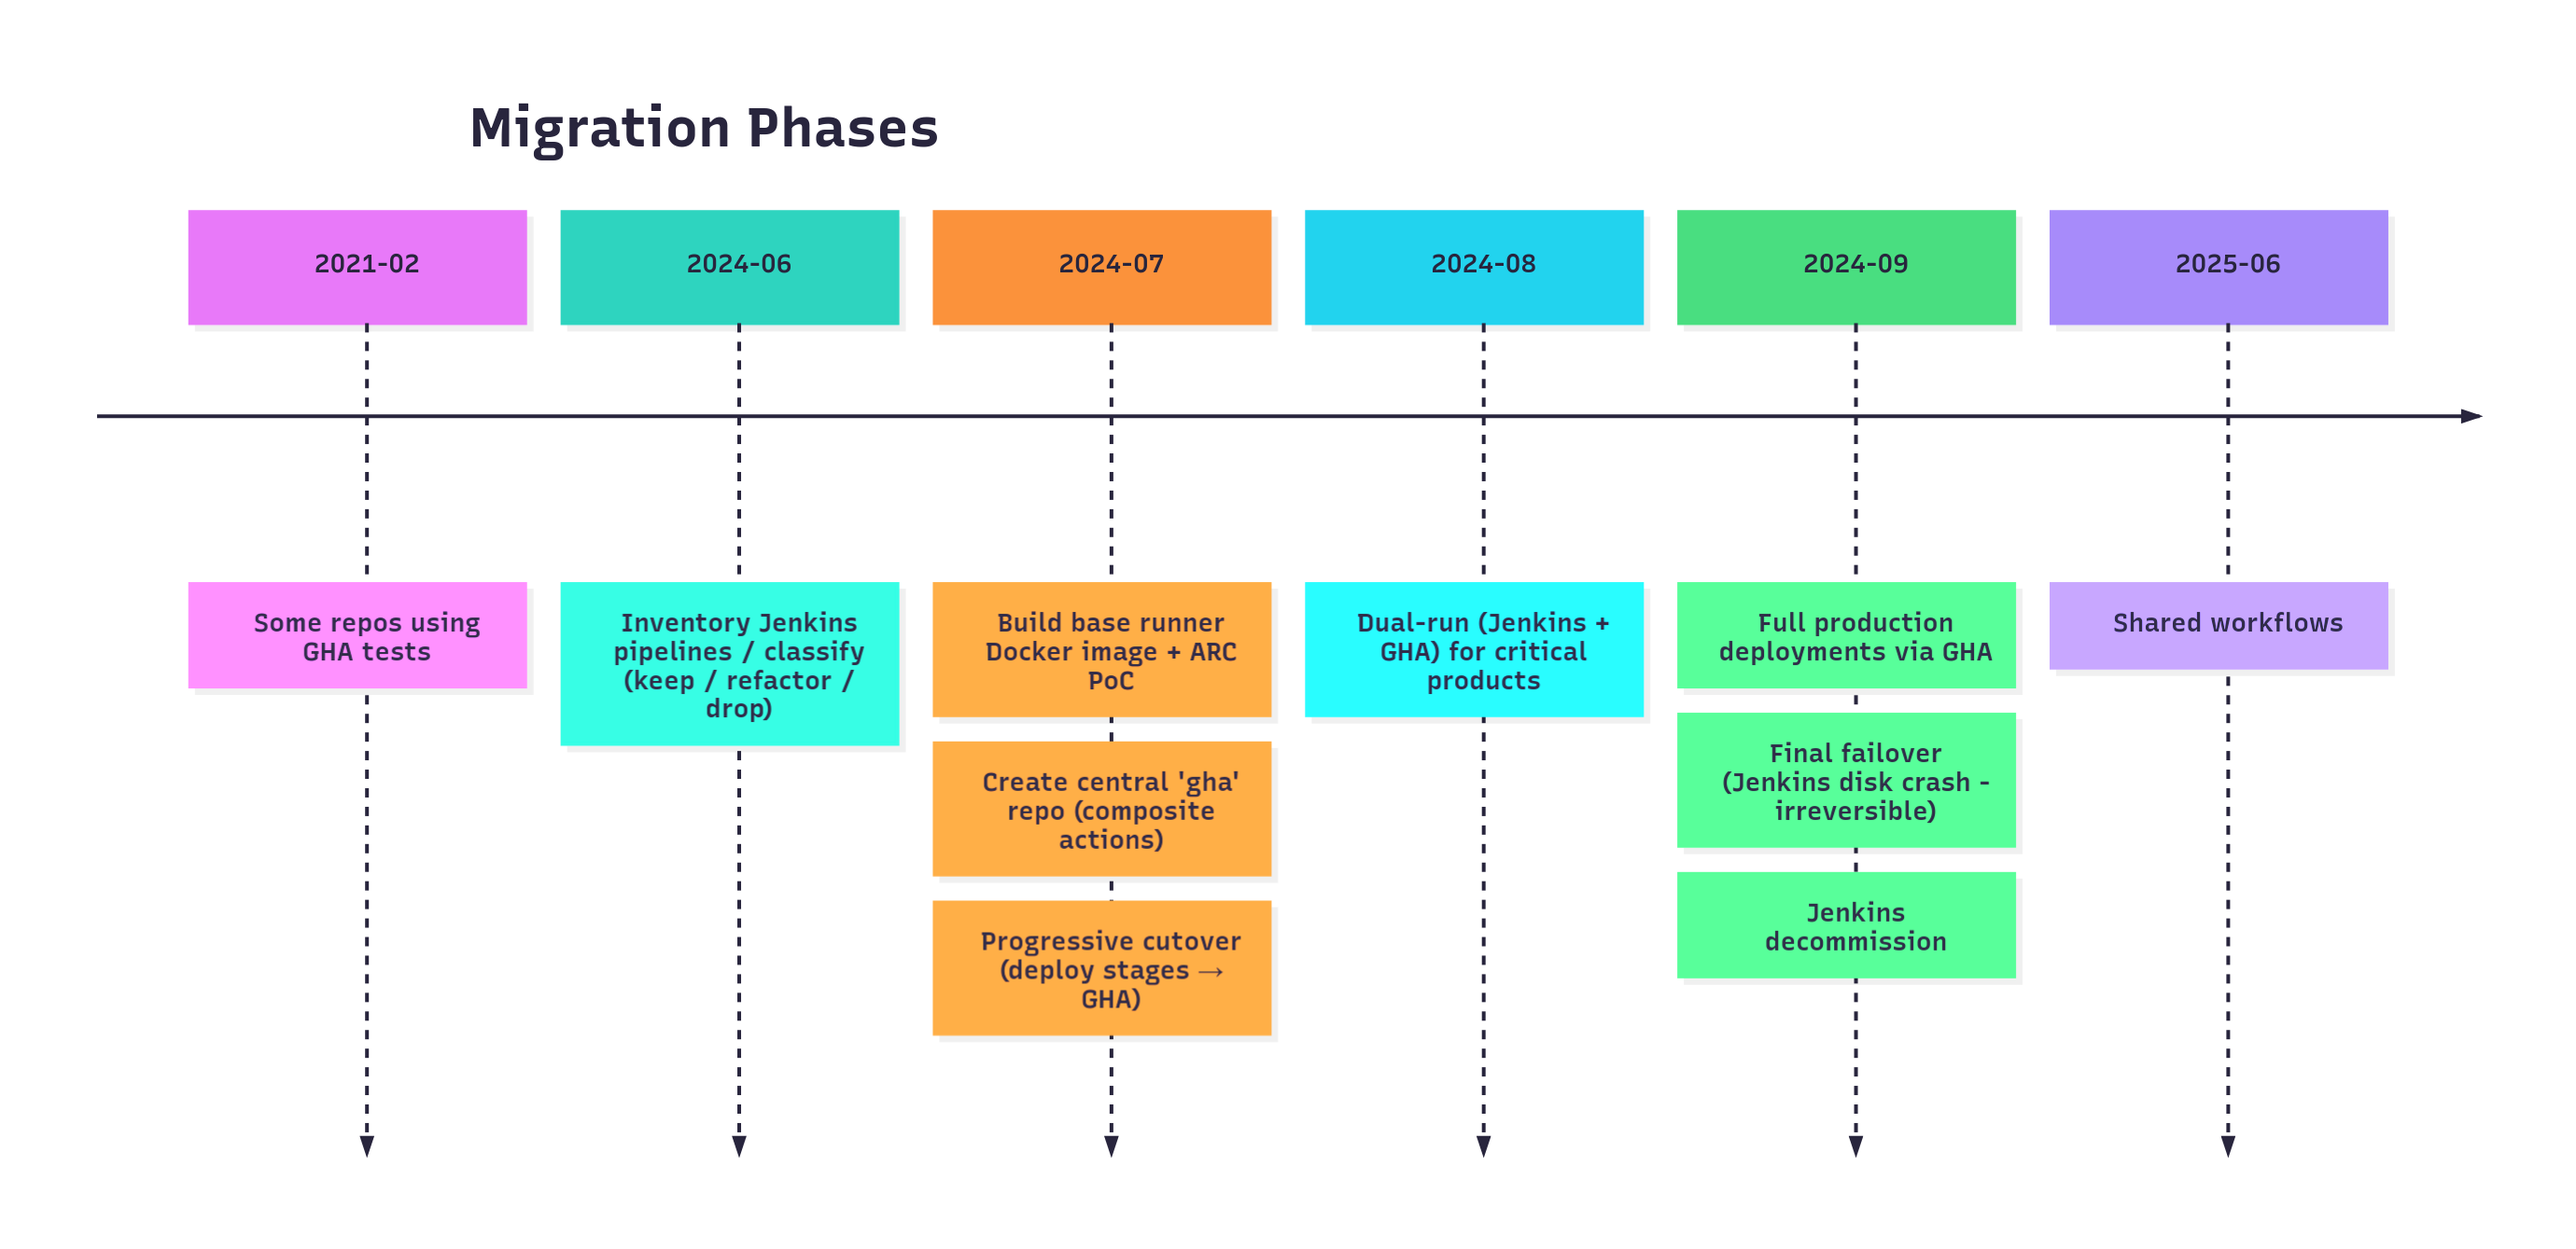
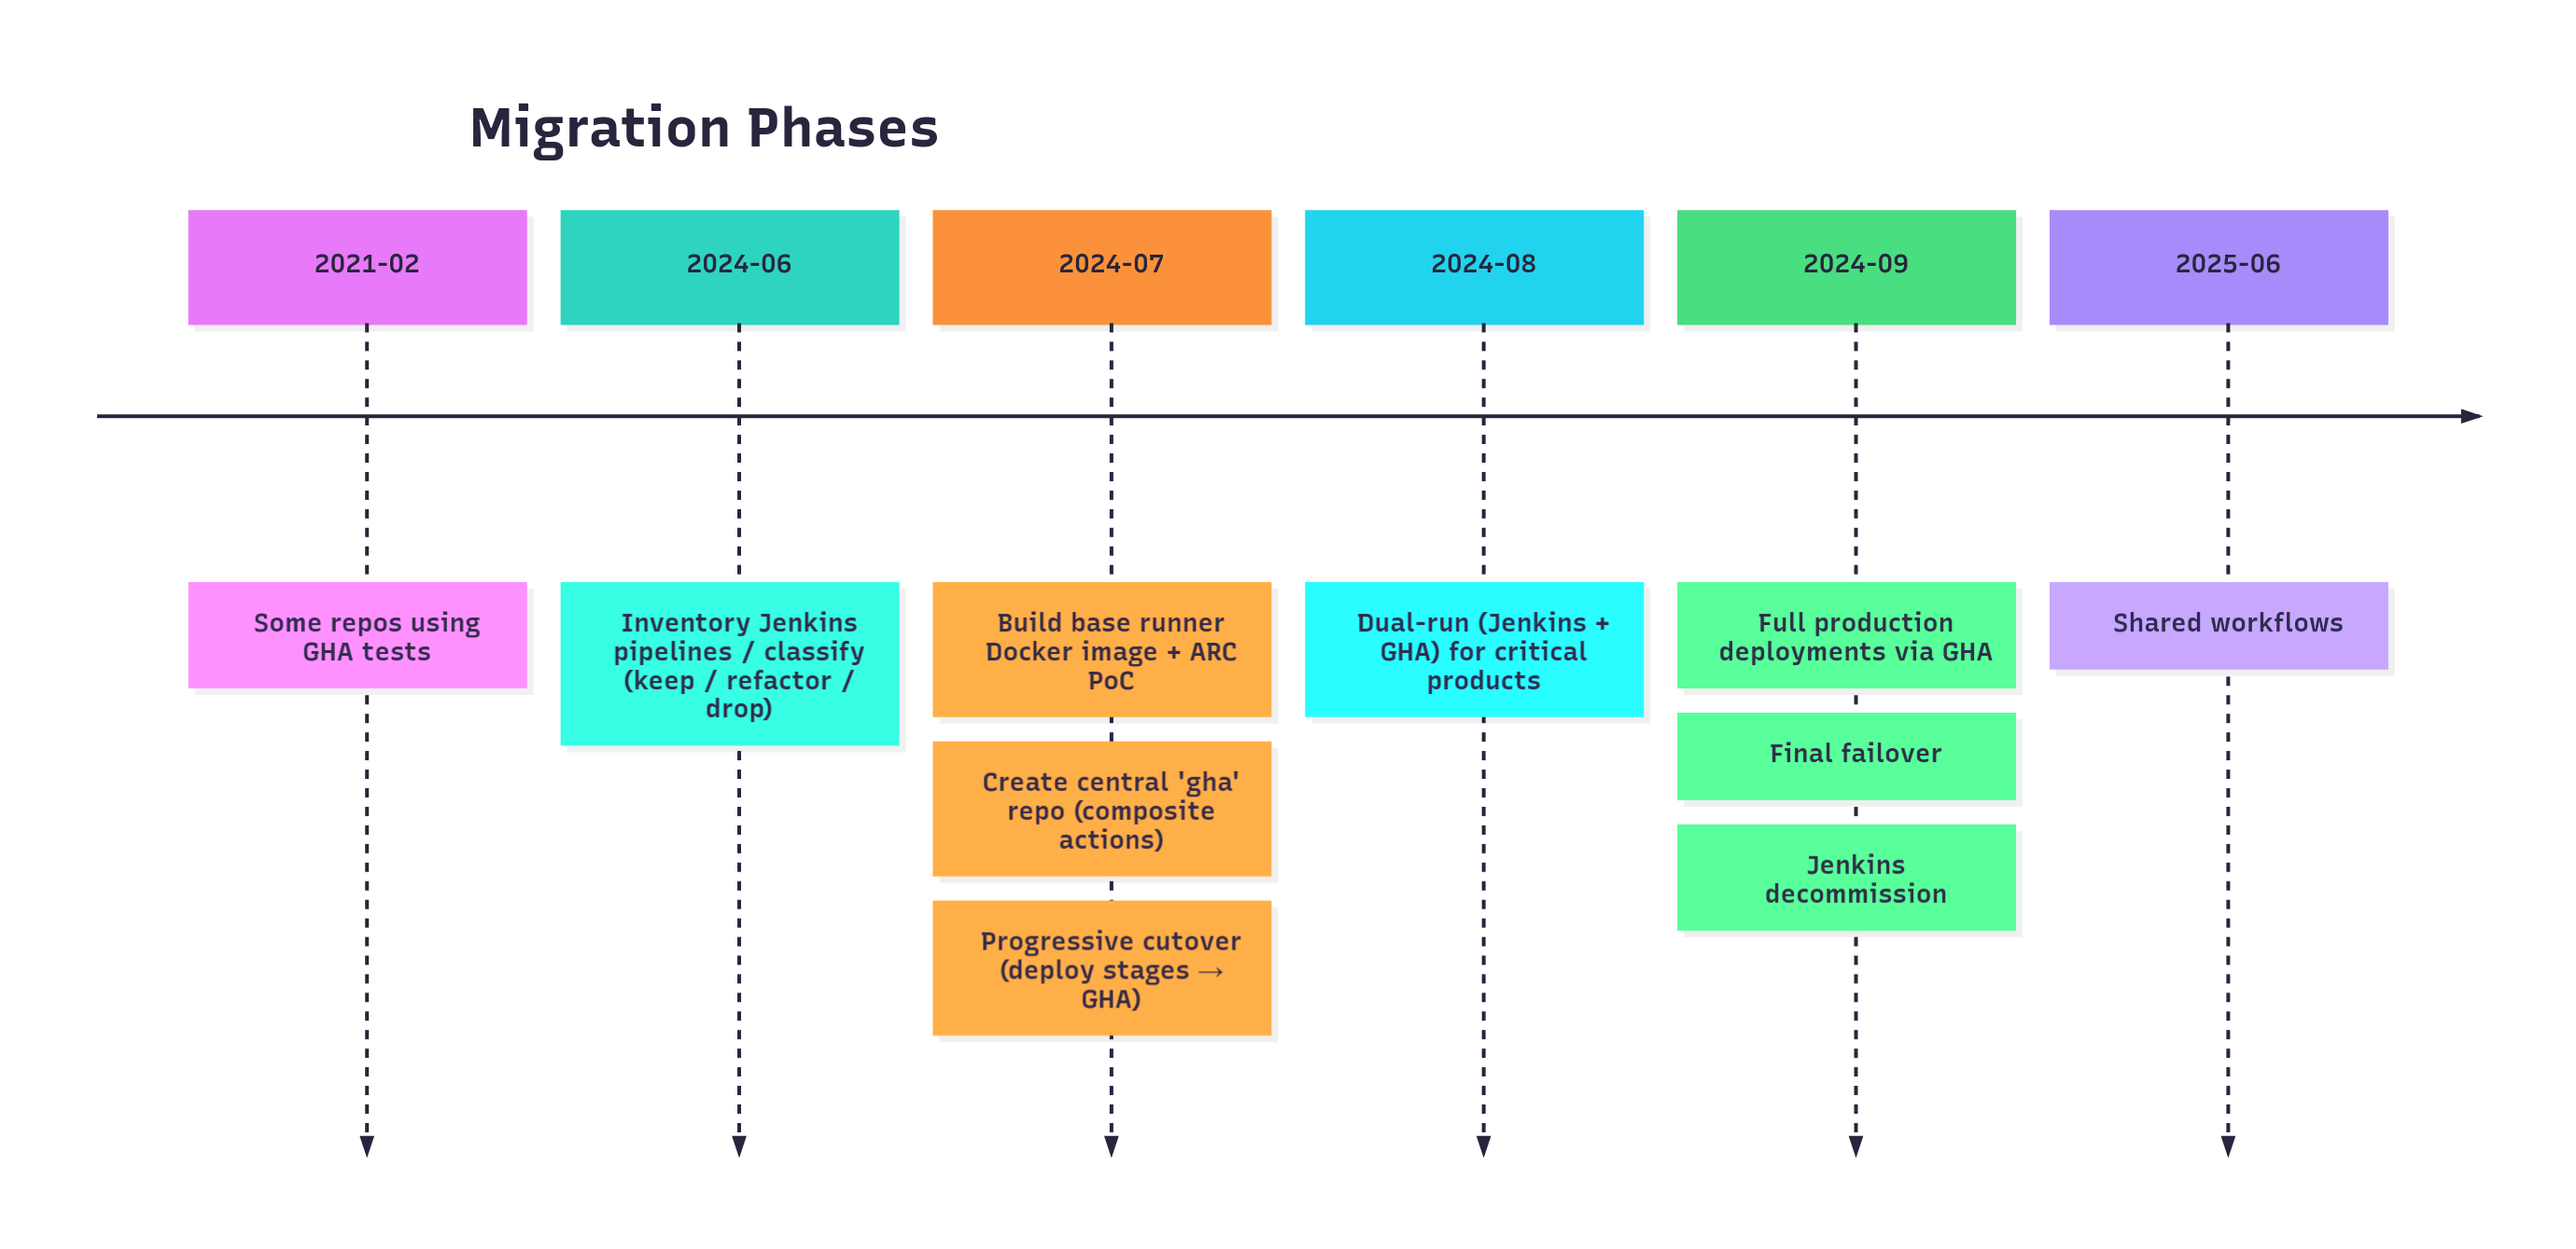
feat: update timeline image

Changed region(s): [[0.6543, 0.6124, 0.779, 0.7961]]

diff --git a/src/slides.md b/src/slides.md
@@ -264,7 +264,7 @@ timeline
            : Progressive cutover (deploy stages → GHA)
     2024-08: Dual-run (Jenkins + GHA) for critical products
     2024-09: Full production deployments via GHA
-           : Final failover (Jenkins disk crash - irreversible)
+           : Final failover
            : Jenkins decommission
     2025-06: Shared workflows
 -->
